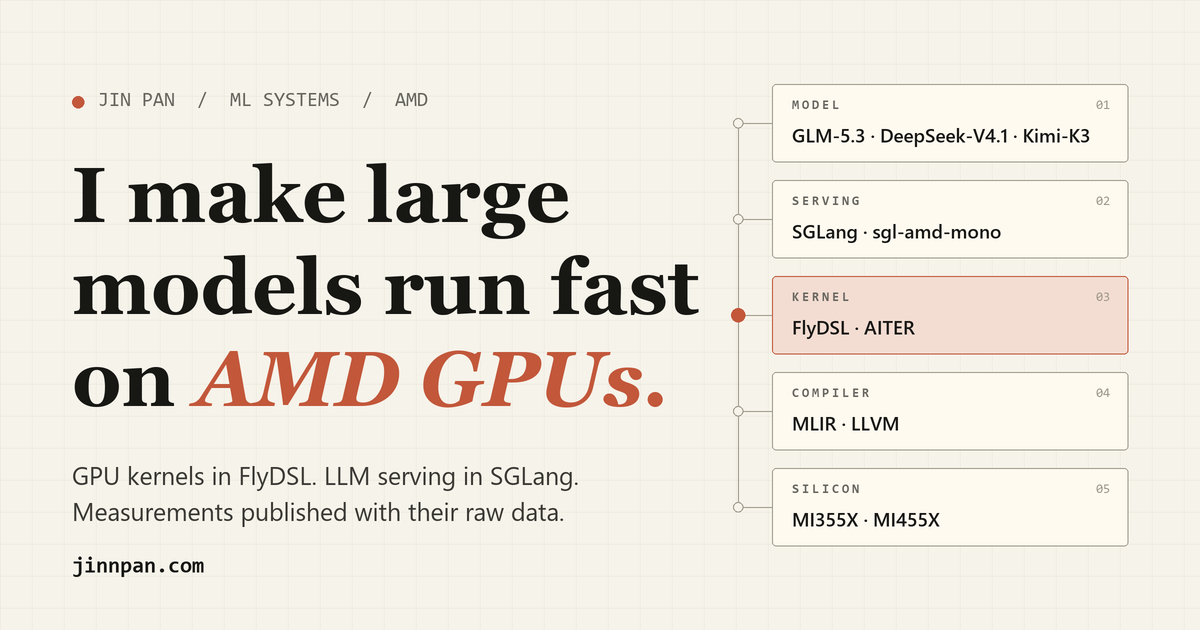
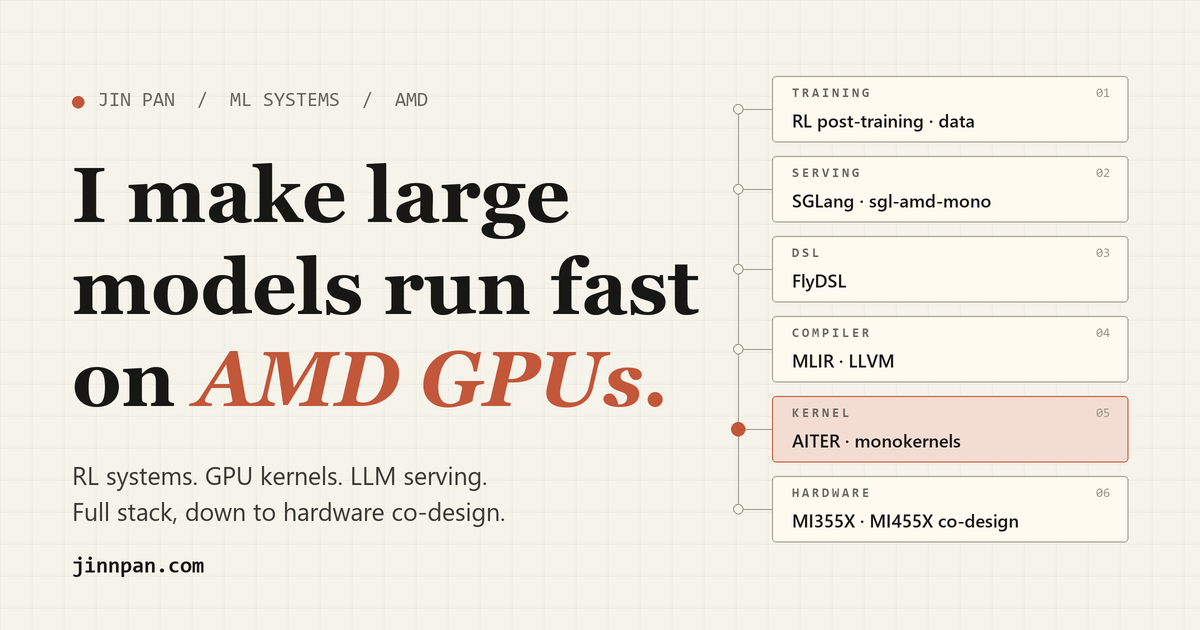
feat(home): present the full stack, from RL training to hardware
The home page described kernels and serving only. The work spans the
whole stack: RL training and data preparation, LLM serving, the DSL,
the compiler, the kernels and hardware co-design, with kernels as the
bridge between training and serving.

- The stack figure has six layers (training, serving, DSL, compiler,
  kernel, hardware). Its pulse timing now follows the number of layers.
- Four work threads: RL systems, GPU kernels, LLM serving, agents for
  kernels.
- Site description is "RL Systems / GPU Kernels / LLM Serving".
- The degree from UW-Madison is an MS, 2024 to 2026.
- The share card matches the new positioning.

diff --git a/src/data/home.ts b/src/data/home.ts
@@ -20,17 +20,19 @@ export const STATS: { value: number; label: Text }[] = [
   },
 ];
 
-// Top to bottom is the path of one request. Each layer links to a reading of that layer.
+// The full stack, top to bottom: training, serving, then DSL to compiler to kernel to
+// hardware. Each layer links to a reading of that layer; {lang} becomes the page language.
 export const STACK: { name: string; items: string; href: string }[] = [
   {
-    name: "MODEL",
-    items: "GLM-5.3 · DeepSeek-V4.1 Flash · Kimi-K3",
-    href: "/sources/kimi-k3-kda-time-share.html",
+    name: "TRAINING",
+    items: "RL post-training · data",
+    href: "/{lang}/blog/long-sequence-moe-rl/",
   },
   { name: "SERVING", items: "SGLang · sgl-amd-mono", href: "/sources/sglang.html" },
-  { name: "KERNEL", items: "FlyDSL · AITER", href: "/sources/flydsl.html" },
+  { name: "DSL", items: "FlyDSL", href: "/sources/flydsl.html" },
   { name: "COMPILER", items: "MLIR · LLVM", href: "/sources/flydsl-compiler-redesign.html" },
-  { name: "SILICON", items: "MI355X · MI455X", href: "/sources/gcnasm.html" },
+  { name: "KERNEL", items: "AITER · monokernels", href: "/sources/aiter.html" },
+  { name: "HARDWARE", items: "MI355X · MI455X co-design", href: "/sources/gcnasm.html" },
 ];
 
 export type BarTone = "accent" | "teal" | "teal-soft" | "muted" | "hatch";
@@ -141,13 +143,29 @@ export type Chip = { label: Text; count?: number; href?: string };
 const mergedBy = (repo: string) =>
   `https://github.com/${repo}/pulls?q=is%3Apr+author%3Ajhinpan+is%3Amerged`;
 
+// Training and serving, the kernels between them, and the agents that write those kernels.
 export const THREADS: { tag: string; title: Text; body: Text; chips: Chip[] }[] = [
   {
-    tag: "A · Kernels",
+    tag: "A · RL systems",
+    title: { en: "Train on the engine you serve with", zh: "用 serving 引擎来训练" },
+    body: {
+      en: "RL post-training on AMD GPUs with Miles and slime, from data preparation to the training run. Rollouts use SGLang, so training and serving share one engine.",
+      zh: "在 AMD GPU 上用 Miles 和 slime 做 RL 后训练， 从数据准备到训练本身。 rollout 用的是 SGLang， 所以训练和推理共用同一个引擎。",
+    },
+    chips: [
+      { label: { en: "THUDM/slime", zh: "THUDM/slime" }, count: 7, href: mergedBy("THUDM/slime") },
+      {
+        label: { en: "Long-sequence MoE RL", zh: "Long-sequence MoE RL" },
+        href: "/{lang}/blog/long-sequence-moe-rl/",
+      },
+    ],
+  },
+  {
+    tag: "B · GPU kernels",
     title: { en: "Write the kernel, then prove it", zh: "先写 kernel， 再证明它是对的" },
     body: {
-      en: "GPU kernels in FlyDSL for MI355X and MI455X, and the reviews that gate them before they reach a serving backend.",
-      zh: "用 FlyDSL 为 MI355X 和 MI455X 写 GPU kernel， 并在它们进入 serving 后端之前做 review 把关。",
+      en: "GPU kernels are the bridge between training and serving. I write them in FlyDSL for MI355X and MI455X, and review the ones that reach a serving backend.",
+      zh: "GPU kernel 是训练和推理之间的桥。 我用 FlyDSL 为 MI355X 和 MI455X 写 kernel， 并在它们进入 serving 后端之前做 review 把关。",
     },
     chips: [
       {
@@ -159,7 +177,7 @@ export const THREADS: { tag: string; title: Text; body: Text; chips: Chip[] }[] 
     ],
   },
   {
-    tag: "B · Serving",
+    tag: "C · LLM serving",
     title: { en: "Measure the model, not the kernel", zh: "测模型， 不只测 kernel" },
     body: {
       en: "Model-level performance in SGLang on AMD: GLM-5.3, DeepSeek-V4.1 Flash and Kimi-K3, from one request to a loaded server.",
@@ -179,11 +197,11 @@ export const THREADS: { tag: string; title: Text; body: Text; chips: Chip[] }[] 
     ],
   },
   {
-    tag: "C · Agents for kernels",
+    tag: "D · Agents for kernels",
     title: { en: "Let agents write, let a harness judge", zh: "让 agent 写， 让 harness 判" },
     body: {
-      en: "A fleet that schedules agent kernel-optimization jobs on MI355X nodes, and a deterministic validator for the pull requests they open.",
-      zh: "一个把 agent 的 kernel 优化任务调度到 MI355X 节点上的集群， 以及一个对它们提交的 PR 做确定性验证的 validator。",
+      en: "A pipeline that lets agents write and optimize GPU kernels. It schedules their jobs on MI355X nodes and judges every pull request they open with a deterministic validator.",
+      zh: "一条让 agent 写 kernel、优化 kernel 的 pipeline。 它把任务调度到 MI355X 节点上， 并用确定性的 validator 评判 agent 提交的每个 PR。",
     },
     chips: [
       { label: { en: "private repositories", zh: "私有仓库" } },
@@ -255,11 +273,11 @@ export const TIMELINE: { year: string; place: Text; detail: string }[] = [
   {
     year: "2024",
     place: { en: "UW–Madison", zh: "威斯康星大学麦迪逊分校" },
-    detail: "MS / PhD, Computer Sciences",
+    detail: "MS, Computer Sciences",
   },
   {
     year: "2026",
     place: { en: "AMD AIG Codesign", zh: "AMD AIG Codesign" },
-    detail: "GPU kernels and LLM serving",
+    detail: "RL systems, GPU kernels, LLM serving",
   },
 ];

diff --git a/src/styles/home.css b/src/styles/home.css
@@ -480,17 +480,14 @@ html[lang='zh'] .home-sec-head h2 {
 
 .home-threads {
   display: grid;
-  grid-template-columns: repeat(3, 1fr);
+  grid-template-columns: repeat(2, minmax(0, 1fr));
+  gap: 36px 56px;
 }
 
 .home-thread {
   height: 100%;
-  padding: 2px 28px 2px 0;
-}
-
-.home-threads > div + div .home-thread {
-  padding-left: 28px;
-  border-left: 1px solid var(--color-line);
+  padding-top: 18px;
+  border-top: 1px solid var(--color-line);
 }
 
 .home-thread-tag {
@@ -718,14 +715,6 @@ span.home-chip {
     grid-template-columns: 1fr;
   }
 
-  .home-threads > div + div .home-thread {
-    margin-top: 20px;
-    padding-top: 20px;
-    padding-left: 0;
-    border-top: 1px solid var(--color-line);
-    border-left: 0;
-  }
-
   .home-stats {
     grid-template-columns: repeat(2, 1fr);
   }
@@ -826,18 +815,18 @@ span.home-chip {
     opacity: 1;
   }
 
-  /* Timing assumes the five layers of STACK: 4 s of travel at one layer per second, then 2 s of rest.
-     Each layer lights up as the pulse reaches it. */
+  /* The pulse falls one layer per second and each layer lights up as it arrives.
+     StackFigure.astro sets --loop and --travel from the number of layers. */
   .home-stack.show .home-pulse {
-    animation: home-fall 6s linear 1.9s infinite;
+    animation: home-fall var(--loop) linear 1.9s infinite;
   }
 
   .home-stack.show .home-layer:not(:hover):not(:focus-visible) rect {
-    animation: home-glow 6s linear calc(1.9s + var(--i) * 1s) infinite;
+    animation: home-glow var(--loop) linear calc(1.9s + var(--i) * 1s) infinite;
   }
 
   .home-stack.show .home-layer .home-node {
-    animation: home-node-glow 6s linear calc(1.9s + var(--i) * 1s) infinite;
+    animation: home-node-glow var(--loop) linear calc(1.9s + var(--i) * 1s) infinite;
   }
 
   /* Section rule, bars and timeline draw from the left. */
@@ -896,26 +885,20 @@ span.home-chip {
 }
 
 @keyframes home-fall {
-  0% {
+  from {
     transform: translateY(0);
-    opacity: 0;
-  }
-
-  3%,
-  63% {
     opacity: 1;
   }
 
-  66.66%,
-  100% {
+  to {
     transform: translateY(var(--travel));
-    opacity: 0;
+    opacity: 1;
   }
 }
 
 @keyframes home-glow {
   0%,
-  11% {
+  10% {
     fill: var(--color-accent-soft);
     stroke: var(--color-accent);
   }

diff --git a/src/consts.ts b/src/consts.ts
@@ -2,14 +2,14 @@ import type { Metadata, Site, Socials } from "@types";
 
 export const SITE: Site = {
   TITLE: "Jin Pan",
-  DESCRIPTION: "ML Systems / GPU Kernels / LLM Serving",
+  DESCRIPTION: "RL Systems / GPU Kernels / LLM Serving",
   EMAIL: "panjin1221@gmail.com",
 };
 
 export const HOME: Metadata = {
   TITLE: "Jin Pan · ML Systems",
   DESCRIPTION:
-    "Jin Pan works on ML systems at AMD: GPU kernels in FlyDSL, LLM serving in SGLang, and measurements published with their raw data.",
+    "Jin Pan works on ML systems at AMD across the full stack: RL training, GPU kernels and LLM serving, down to the compiler and hardware co-design.",
 };
 
 export const BLOG: Metadata = {
